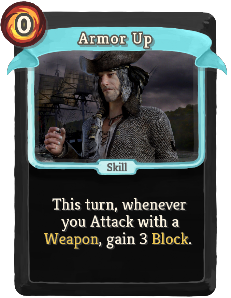
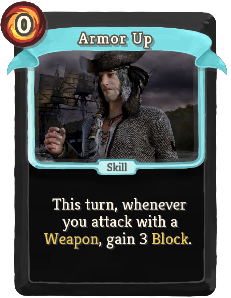
v.1.2.0 - cards exported

Changed region(s): [[0.2727, 0.7248, 0.7879, 0.7852]]

diff --git a/cards/cardlist.html b/cards/cardlist.html
@@ -302,7 +302,7 @@
         <td>Uncommon</td>
         <td>Skill</td>
         <td>0</td>
-        <td>This turn, whenever you Attack with a Weapon, gain 3(5) Block.</td>
+        <td>This turn, whenever you attack with a Weapon, gain 3(5) Block.</td>
     </tr>
 
     <tr>

diff --git a/cards/cardlist.md b/cards/cardlist.md
@@ -23,7 +23,7 @@
 | Toast | ![](small-card-images/Toast.png) | ![](small-card-images/ToastPlus.png) | Common | Skill | 0 | Gain 2(3) Resistance. At the start of your next turn, lose 2(3) Resistance. Exhaust. |
 | Agile Strike | ![](small-card-images/AgileStrike.png) | ![](small-card-images/AgileStrikePlus.png) | Uncommon | Attack | 1 | Deal 9(13) damage. If you have equipped a Weapon this turn, reduce cost of this card to 0. |
 | Anchor | ![](small-card-images/Anchor.png) | ![](small-card-images/AnchorPlus.png) | Uncommon | Skill | 0 | Innate. Gain 10 Block. (Draw a card.) Exhaust. |
-| Armor Up | ![](small-card-images/ArmorUp.png) | ![](small-card-images/ArmorUpPlus.png) | Uncommon | Skill | 0 | This turn, whenever you Attack with a Weapon, gain 3(5) Block. |
+| Armor Up | ![](small-card-images/ArmorUp.png) | ![](small-card-images/ArmorUpPlus.png) | Uncommon | Skill | 0 | This turn, whenever you attack with a Weapon, gain 3(5) Block. |
 | Bandana | ![](small-card-images/Bandana.png) | ![](small-card-images/BandanaPlus.png) | Uncommon | Power | 1 | Gain 2(3) Dexterity. |
 | Boarding | ![](small-card-images/Boarding.png) | ![](small-card-images/BoardingPlus.png) | Uncommon | Attack | 2 | Deal 12(16) damage to ALL enemies. Draw 2 cards. |
 | Brown Pants | ![](small-card-images/BrownPants.png) | ![](small-card-images/BrownPantsPlus.png) | Uncommon | Power | 2 | Gain 5(6) Plated Armor. |
